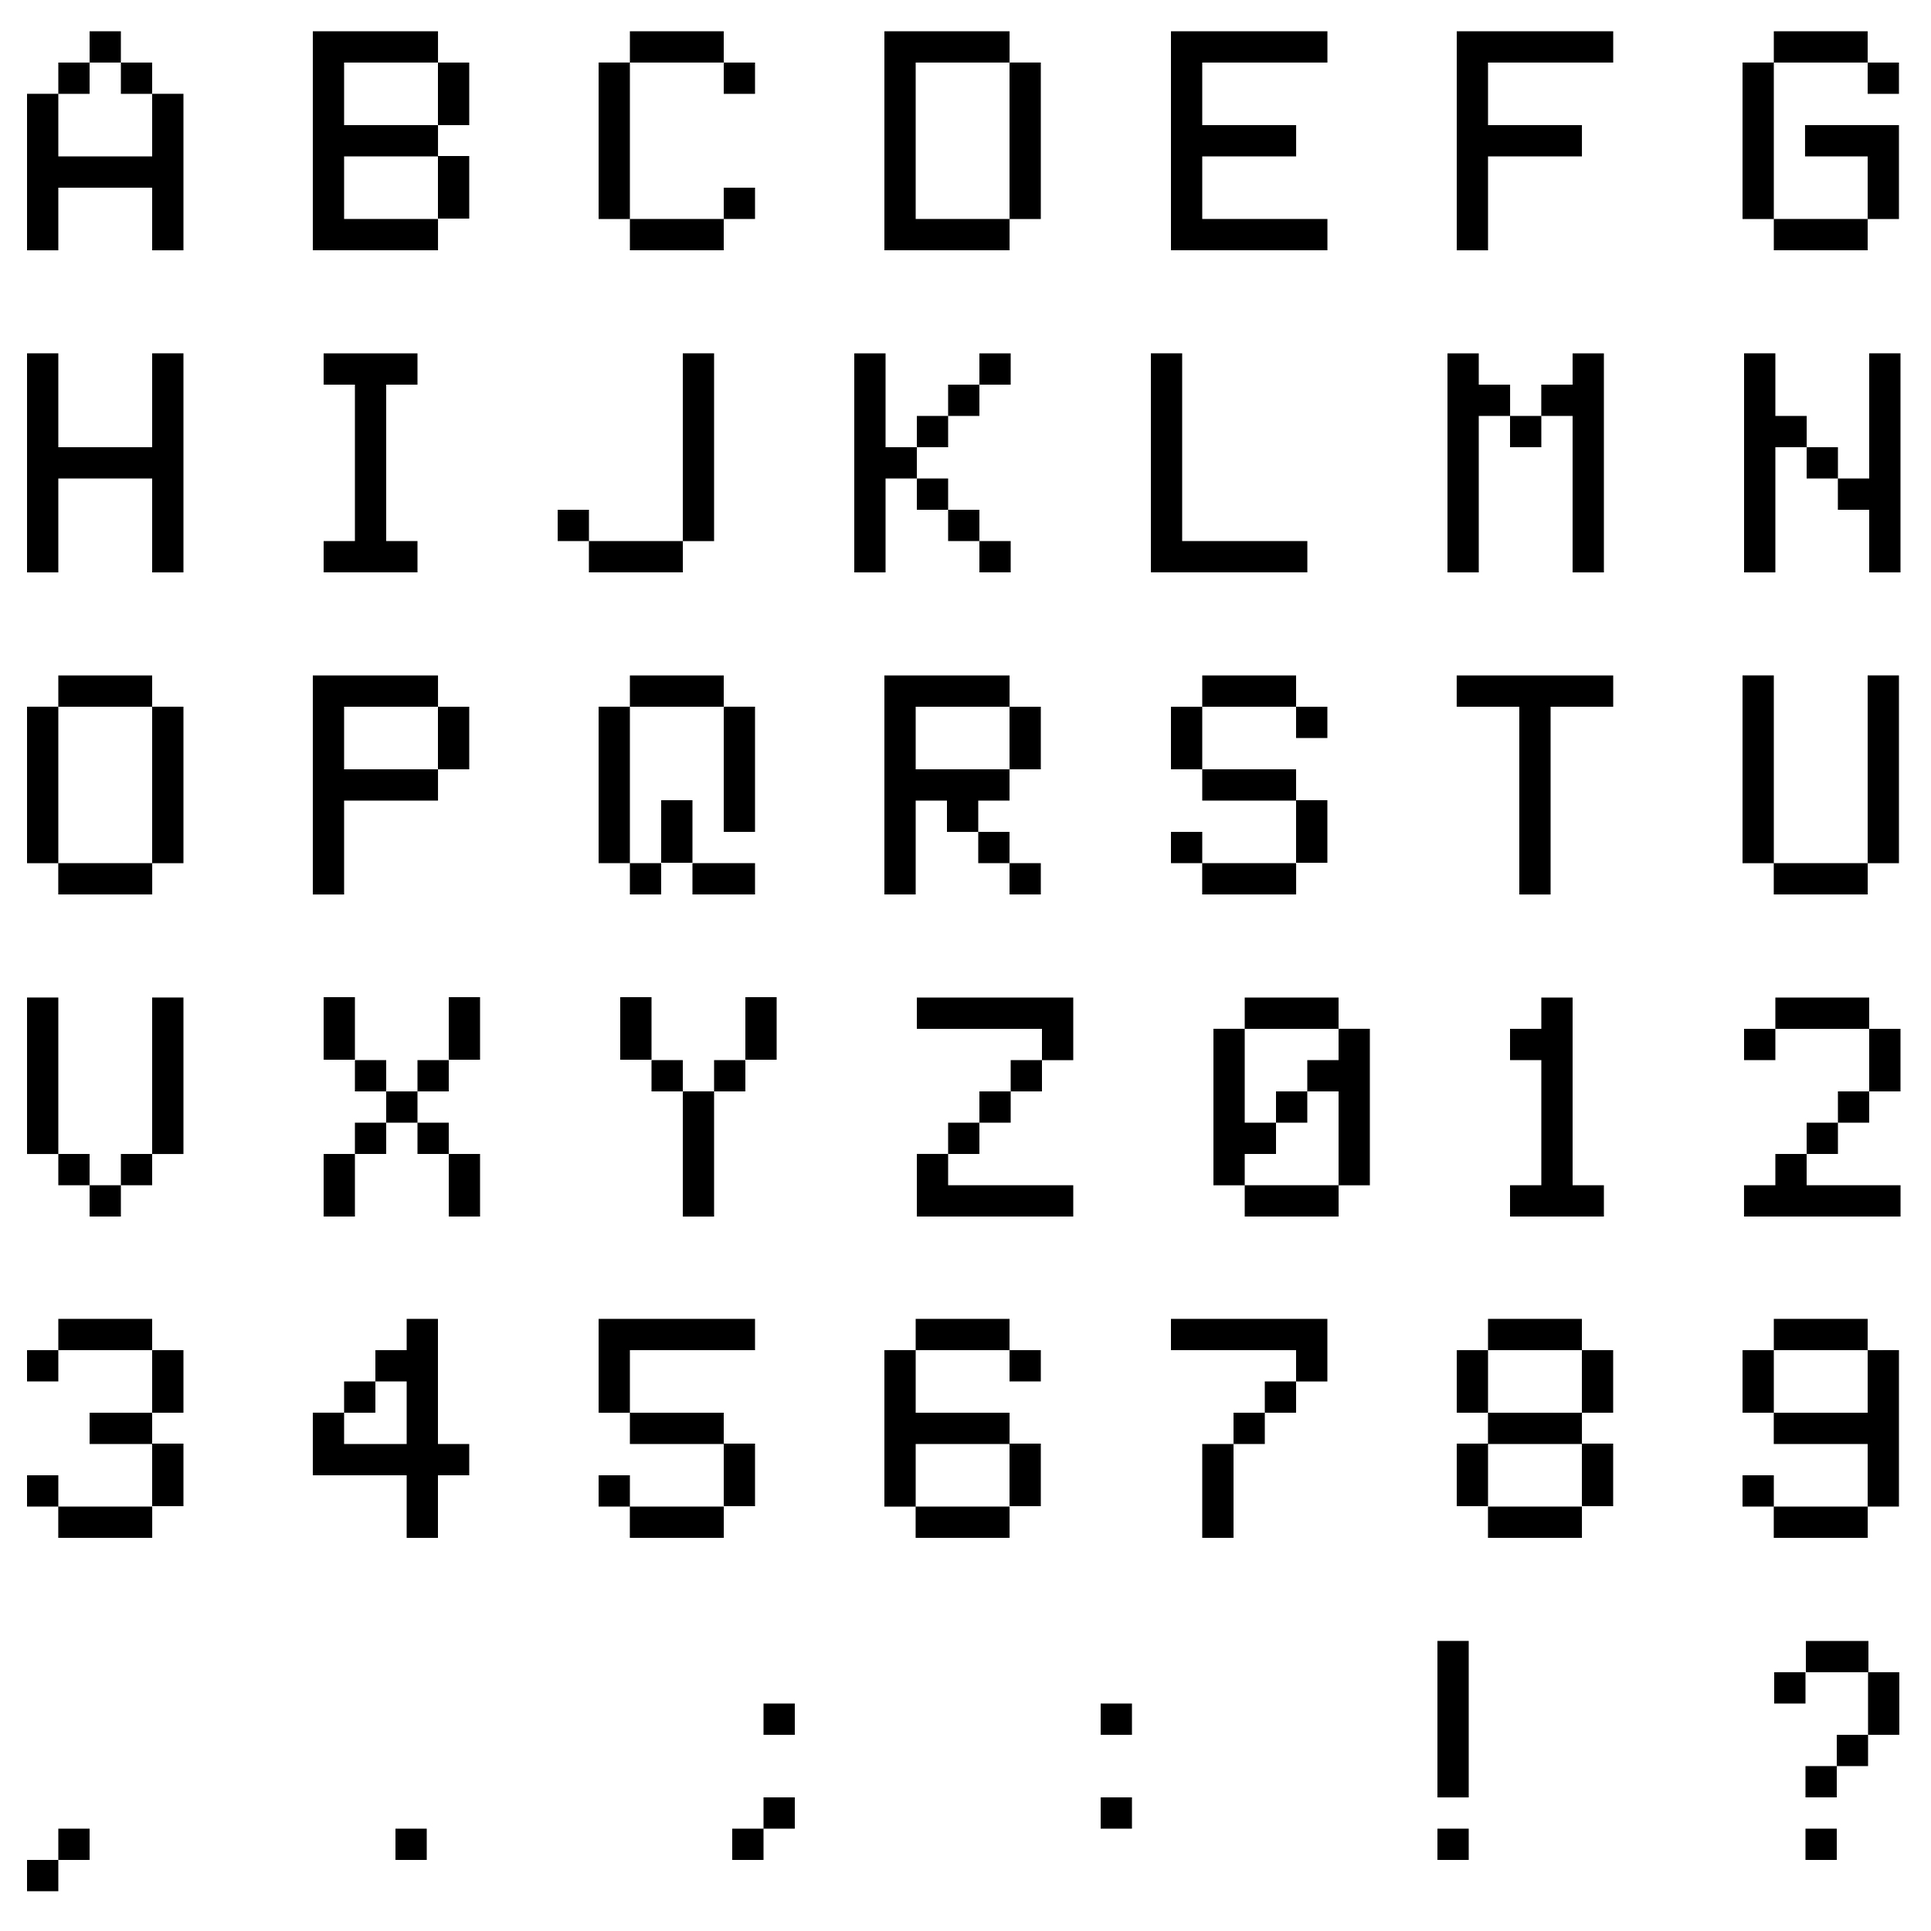
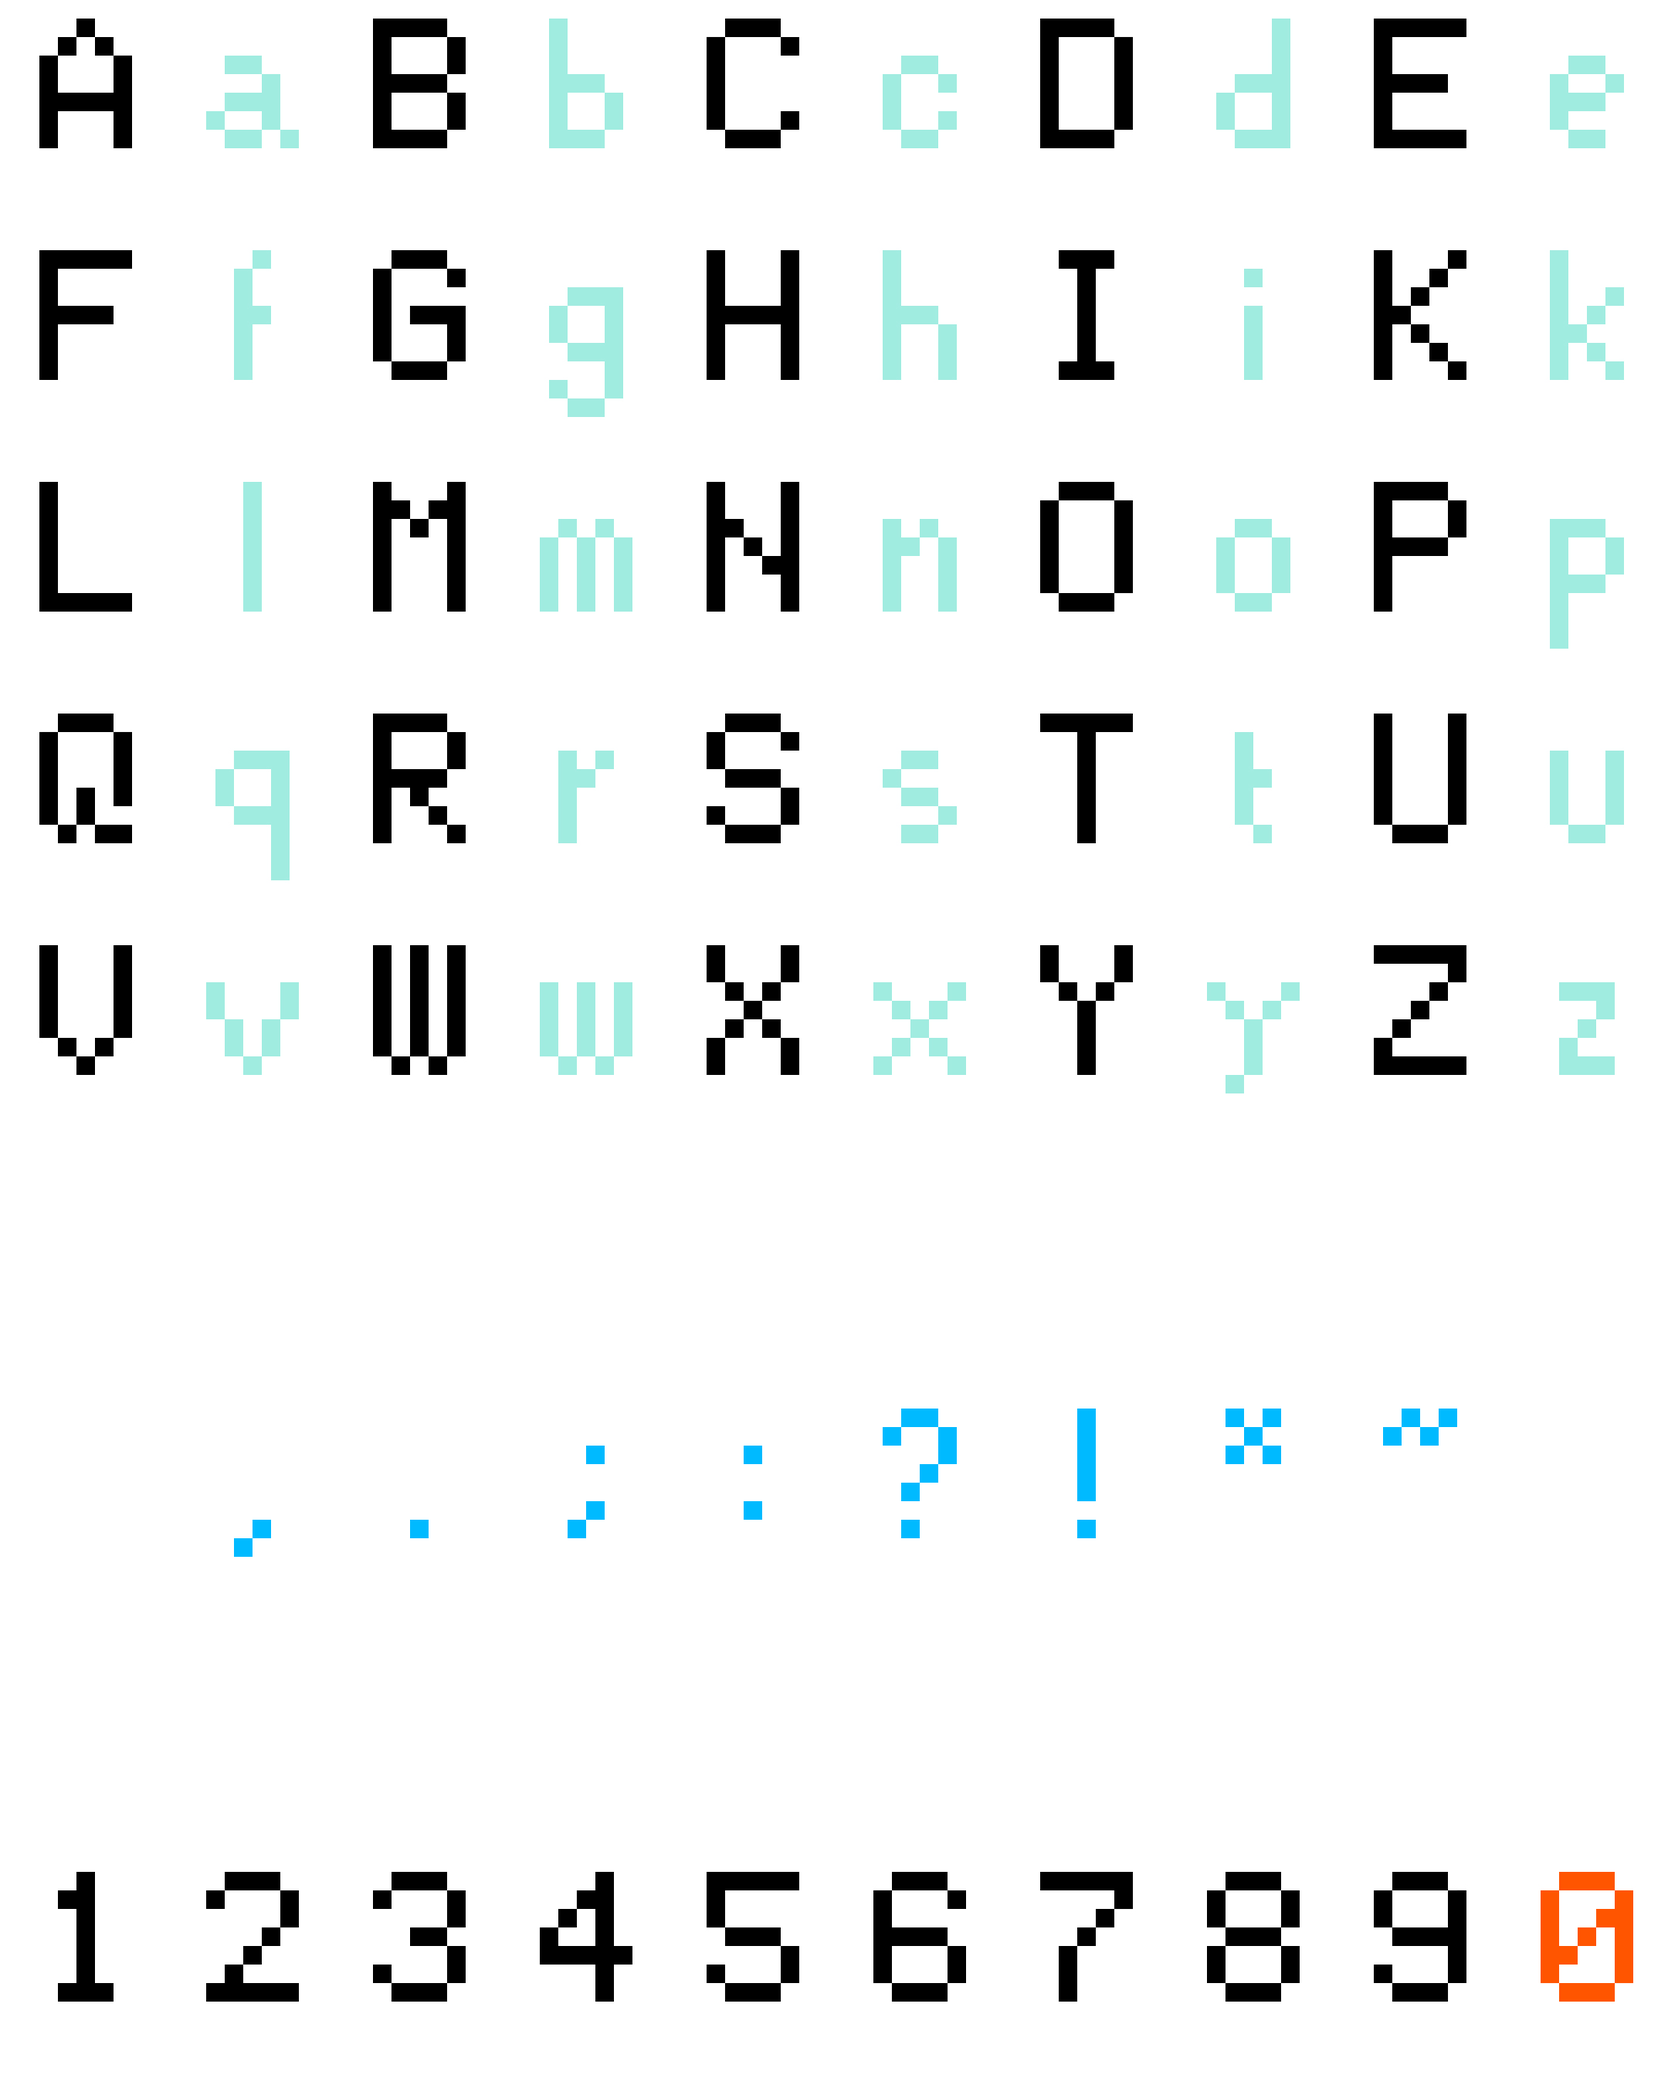
Ny version av pixeltypsnittet mwn-pxltype5-a

diff --git a/PLAN.md b/PLAN.md
@@ -265,3 +265,4 @@ Uppdateras vid varje ändring av sajten.
 
 **2026-11-02**
 - Ny bild `mwn-pxltype5-a.jpg` (pixeltypsnitt) sist i design
+- `mwn-pxltype5-a.jpg` utbytt mot ny version i 4:5 med gemener och färg, ny alt-text
